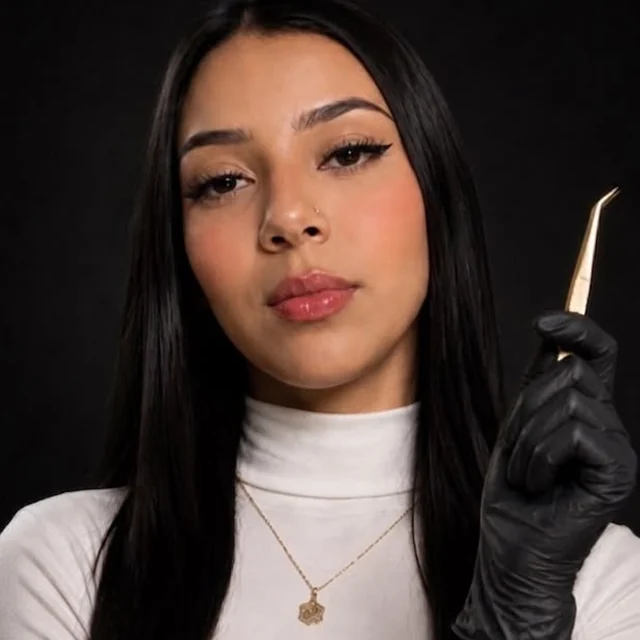
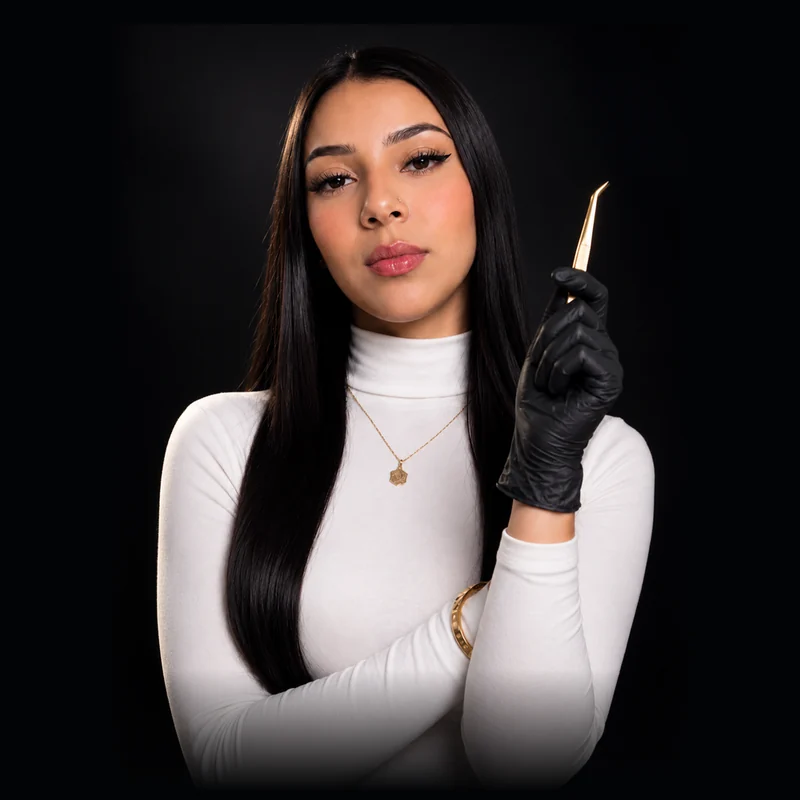
Foto da Nicoly inteira dentro do círculo
- Nova foto enviada, encaixada inteira no quadrado (cabeça aos braços)
  com as laterais e a base se misturando ao fundo preto do círculo.
- Círculo do topo maior para a foto inteira não ficar pequena:
  200px no celular e 300px no computador.

Claude-Session: https://claude.ai/code/session_0135b3US8n3R55PJSzgBg32K

diff --git a/src/app/globals.css b/src/app/globals.css
@@ -420,13 +420,13 @@ select.input-lux option { background: var(--bg-secondary); color: var(--text-mai
 }
 
 .hero-logo {
-  --tam: 150px;
+  --tam: 200px;
   position: relative;
   width: var(--tam);
   height: var(--tam);
   animation: heroLogoIn 1.2s cubic-bezier(0.16, 1, 0.3, 1) both;
 }
-@media (min-width: 768px) { .hero-logo { --tam: 250px; } }
+@media (min-width: 768px) { .hero-logo { --tam: 300px; } }
 
 .hero-logo-float {
   position: relative;

diff --git a/src/components/HeroLogo.tsx b/src/components/HeroLogo.tsx
@@ -21,10 +21,10 @@ export default function HeroLogo({ src }: { src: string }) {
         <Image
           src={src}
           alt="Nicoly, lash designer da Nicbeautty"
-          width={280}
-          height={280}
+          width={320}
+          height={320}
           priority
-          sizes="(max-width: 768px) 150px, 260px"
+          sizes="(max-width: 768px) 200px, 300px"
           className="hero-logo-img"
         />
       </div>
